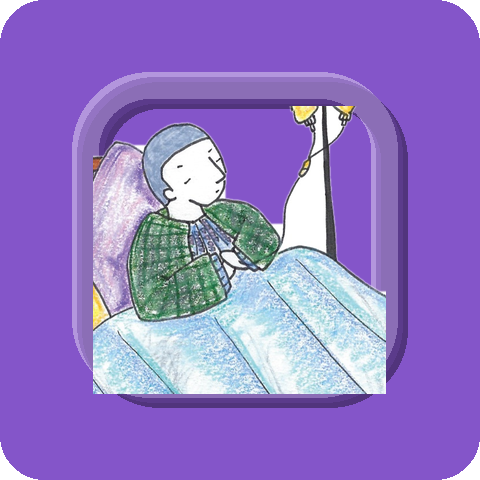
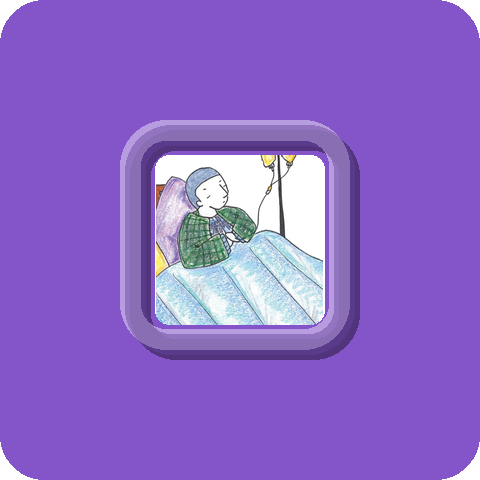
사계절 카드: 그림을 액자 안에 통째로 넣고 글자는 액자 밖으로
시안대로 '이름(위) → 액자 → 문구(아래)' 세 층으로 다시 잡았다.

배경 투명 처리를 없앴다. 흰 배경을 지우는 방식은 캐릭터의 흰 부분
(서퍼의 셔츠, 물보라, 이불)까지 함께 지워 카드 색이 비쳐 보였다.
이제 원본 그림을 액자 안쪽에 그대로 넣고, 그림의 흰 배경을 안쪽 판으로
쓴다. 캐릭터가 원화 그대로 선명하게 보인다.

- 액자를 268→230px로 줄이고 위 26% / 아래 26%를 글자 자리로 비움
- 계절 이름을 좌상단 → 상단 가운데, 문구는 하단 가운데로 (둘 다 액자 밖)
- 팔레트 PNG(ch-surf, ch-spring)를 RGB로 바로 바꾸면 투명 영역이 검게
  변하는 문제 수정 — 흰 바탕에 먼저 합성한 뒤 변환

검증: 375px(카드 162px)·1280px(312px) 모두 이름/문구가 액자 구간
(26~74%)을 침범하지 않음. 4장 로드 정상, 가로 스크롤 없음.

diff --git a/assets/css/style.css b/assets/css/style.css
@@ -2282,16 +2282,20 @@ a.video-more { display: grid; place-items: center; text-align: center; color: #f
 .season__it { position: relative; border-radius: var(--radius-lg); overflow: hidden;
   aspect-ratio: 1 / 1; box-shadow: var(--shadow); }
 .season__img { position: absolute; inset: 0; width: 100%; height: 100%; object-fit: cover; display: block; }
+/* 이름은 액자 위, 문구는 액자 아래 — 그림과 겹치지 않게 바깥으로 뺀다.
+   (합성 이미지에서 위 21% / 아래 24%를 비워 두었다) */
 .season__name {
-  position: absolute; top: 14px; left: 16px; z-index: 1;
+  position: absolute; top: 4%; left: 0; right: 0; z-index: 1;
+  text-align: center; line-height: 1.15;
   font-family: var(--font-head); font-weight: 900; letter-spacing: -0.02em;
-  font-size: clamp(1.5rem, 4.2vw, 2.1rem); color: #fff;
-  text-shadow: 0 2px 3px rgba(0,0,0,0.35), 0 0 22px rgba(0,0,0,0.25);
+  font-size: clamp(1.05rem, 3.6vw, 1.9rem); color: #fff;
+  text-shadow: 0 2px 4px rgba(0,0,0,0.28);
 }
 .season__cap {
-  position: absolute; left: 16px; right: 16px; bottom: 14px; z-index: 1;
-  font-weight: 700; font-size: 0.92rem; line-height: 1.5; color: #fff;
-  text-shadow: 0 1px 3px rgba(0,0,0,0.4), 0 0 14px rgba(0,0,0,0.3);
+  position: absolute; left: 6%; right: 6%; bottom: 4.5%; z-index: 1;
+  text-align: center;
+  font-weight: 700; font-size: clamp(0.7rem, 1.8vw, 0.94rem); line-height: 1.35;
+  color: #fff; text-shadow: 0 1px 4px rgba(0,0,0,0.32);
 }
 .an-illus-src {
   max-width: 640px; margin: var(--space-5) auto 0; text-align: center;
@@ -2325,9 +2329,9 @@ a.video-more { display: grid; place-items: center; text-align: center; color: #f
   .iceberg__art { max-width: 220px; margin: 0 auto; order: -1; }
   .iceberg .iceberg__quote { text-align: center; }
   .an-quote { font-size: 1.35rem; }
+  /* 위치는 % 기준(카드 크기에 따라 같이 줄어듦)이라 그대로 두고 폭만 줄인다 */
   .season { max-width: 420px; gap: 12px; }
-  .season__name { font-size: 1.35rem; top: 10px; left: 12px; }
-  .season__cap { font-size: 0.8rem; left: 12px; right: 12px; bottom: 10px; }
+  .season__cap { left: 5%; right: 5%; }
 }
 
 /* ===================================================================

diff --git a/letter-2026-summer.html b/letter-2026-summer.html
@@ -7,7 +7,7 @@
   <meta name="description" content="여름은 다들 떠나는 계절입니다. 그 여름에 병실에 있는 사람에게 보내는 편지. 페루 마추픽추, 산정특례 30일 규칙과 연말정산 장애인 공제, 그리고 2025년에 한 일." />
   <link rel="alternate" hreflang="ko" href="https://nrhoon777.github.io/ddobom-website/letter-2026-summer.html" />
   <link rel="icon" type="image/png" href="assets/img/logo-square.png" />
-  <link rel="stylesheet" href="assets/css/style.css?v=20260811c" />
+  <link rel="stylesheet" href="assets/css/style.css?v=20260811d" />
 </head>
 <body>
   <a href="#main" class="skip-link">본문 바로가기</a>
@@ -339,6 +339,6 @@
     </div>
   </footer>
 
-  <script src="assets/js/main.js?v=20260811c"></script>
+  <script src="assets/js/main.js?v=20260811d"></script>
 </body>
 </html>

diff --git a/letters.html b/letters.html
@@ -7,7 +7,7 @@
   <meta name="description" content="계절마다 한 번, 네 번에 걸쳐 한 해를 도는 또봄의 편지. 여름·가을·겨울·봄, 또봄 로고의 네 네모와 같은 순서입니다." />
   <link rel="alternate" hreflang="ko" href="https://nrhoon777.github.io/ddobom-website/letters.html" />
   <link rel="icon" type="image/png" href="assets/img/logo-square.png" />
-  <link rel="stylesheet" href="assets/css/style.css?v=20260811c" />
+  <link rel="stylesheet" href="assets/css/style.css?v=20260811d" />
 </head>
 <body>
   <a href="#main" class="skip-link">본문 바로가기</a>
@@ -164,6 +164,6 @@
     </div>
   </footer>
 
-  <script src="assets/js/main.js?v=20260811c"></script>
+  <script src="assets/js/main.js?v=20260811d"></script>
 </body>
 </html>

diff --git a/travel-peru.html b/travel-peru.html
@@ -7,7 +7,7 @@
   <meta name="description" content="이카, 나스카, 마추픽추, 쿠스코, 우유니, 69호수. 회복기의 몸을 기준으로 고도순으로 정리한 페루 여행 안내입니다." />
   <link rel="alternate" hreflang="ko" href="https://nrhoon777.github.io/ddobom-website/travel-peru.html" />
   <link rel="icon" type="image/png" href="assets/img/logo-square.png" />
-  <link rel="stylesheet" href="assets/css/style.css?v=20260811c" />
+  <link rel="stylesheet" href="assets/css/style.css?v=20260811d" />
 </head>
 <body>
   <a href="#main" class="skip-link">본문 바로가기</a>
@@ -216,6 +216,6 @@
     </div>
   </footer>
 
-  <script src="assets/js/main.js?v=20260811c"></script>
+  <script src="assets/js/main.js?v=20260811d"></script>
 </body>
 </html>

diff --git a/story-bucketbook.html b/story-bucketbook.html
@@ -7,7 +7,7 @@
   <meta name="description" content="말기암을 이겨낸 뒤 떠난 80일간의 여행. 그 사진으로 만든 포토북을 병원에 전한 2018년 프로젝트 기록입니다." />
   <link rel="alternate" hreflang="ko" href="https://nrhoon777.github.io/ddobom-website/story-bucketbook.html" />
   <link rel="icon" type="image/png" href="assets/img/logo-square.png" />
-  <link rel="stylesheet" href="assets/css/style.css?v=20260811c" />
+  <link rel="stylesheet" href="assets/css/style.css?v=20260811d" />
 </head>
 <body>
   <a href="#main" class="skip-link">본문 바로가기</a>
@@ -238,6 +238,6 @@
     </div>
   </footer>
 
-  <script src="assets/js/main.js?v=20260811c"></script>
+  <script src="assets/js/main.js?v=20260811d"></script>
 </body>
 </html>

diff --git a/index.html b/index.html
@@ -12,7 +12,7 @@
   <link rel="alternate" hreflang="en" href="https://nrhoon777.github.io/ddobom-website/en/index.html" />
   <link rel="alternate" hreflang="x-default" href="https://nrhoon777.github.io/ddobom-website/index.html" />
   <link rel="icon" type="image/png" href="assets/img/logo-square.png" />
-  <link rel="stylesheet" href="assets/css/style.css?v=20260811c" />
+  <link rel="stylesheet" href="assets/css/style.css?v=20260811d" />
 </head>
 <body>
   <a href="#main" class="skip-link">본문 바로가기</a>
@@ -448,7 +448,7 @@
     </div>
   </footer>
 
-  <script src="assets/js/main.js?v=20260811c"></script>
+  <script src="assets/js/main.js?v=20260811d"></script>
   <script type="module" src="assets/js/news-loader.js?v=20260807f"></script>
 </body>
 </html>

diff --git a/story-cheerup.html b/story-cheerup.html
@@ -7,7 +7,7 @@
   <meta name="description" content="암 경험자와 시민이 한자리에서 이야기하고 노래하는 토크·싱 콘서트. 2023년부터 네 번 열린 기록입니다." />
   <link rel="alternate" hreflang="ko" href="https://nrhoon777.github.io/ddobom-website/story-cheerup.html" />
   <link rel="icon" type="image/png" href="assets/img/logo-square.png" />
-  <link rel="stylesheet" href="assets/css/style.css?v=20260811c" />
+  <link rel="stylesheet" href="assets/css/style.css?v=20260811d" />
 </head>
 <body>
   <a href="#main" class="skip-link">본문 바로가기</a>
@@ -167,6 +167,6 @@
     </div>
   </footer>
 
-  <script src="assets/js/main.js?v=20260811c"></script>
+  <script src="assets/js/main.js?v=20260811d"></script>
 </body>
 </html>

diff --git a/story-gift-2020.html b/story-gift-2020.html
@@ -7,7 +7,7 @@
   <meta name="description" content="코로나로 만남이 어려웠던 2020년 겨울, 투병 중인 청년에게 여행 포토북을 보낸 캠페인 기록입니다." />
   <link rel="alternate" hreflang="ko" href="https://nrhoon777.github.io/ddobom-website/story-gift-2020.html" />
   <link rel="icon" type="image/png" href="assets/img/logo-square.png" />
-  <link rel="stylesheet" href="assets/css/style.css?v=20260811c" />
+  <link rel="stylesheet" href="assets/css/style.css?v=20260811d" />
 </head>
 <body>
   <a href="#main" class="skip-link">본문 바로가기</a>
@@ -133,6 +133,6 @@
     </div>
   </footer>
 
-  <script src="assets/js/main.js?v=20260811c"></script>
+  <script src="assets/js/main.js?v=20260811d"></script>
 </body>
 </html>

diff --git a/en/story-bucketbook.html b/en/story-bucketbook.html
@@ -8,7 +8,7 @@
   <link rel="alternate" hreflang="ko" href="https://nrhoon777.github.io/ddobom-website/story-bucketbook.html" />
   <link rel="alternate" hreflang="en" href="https://nrhoon777.github.io/ddobom-website/en/story-bucketbook.html" />
   <link rel="icon" type="image/png" href="../assets/img/logo-square.png" />
-  <link rel="stylesheet" href="../assets/css/style.css?v=20260811c" />
+  <link rel="stylesheet" href="../assets/css/style.css?v=20260811d" />
 </head>
 <body>
   <a href="#main" class="skip-link">Skip to content</a>
@@ -273,6 +273,6 @@
     </div>
   </footer>
 
-  <script src="../assets/js/main.js?v=20260811c"></script>
+  <script src="../assets/js/main.js?v=20260811d"></script>
 </body>
 </html>

diff --git a/en/story-gift-2020.html b/en/story-gift-2020.html
@@ -8,7 +8,7 @@
   <link rel="alternate" hreflang="ko" href="https://nrhoon777.github.io/ddobom-website/story-gift-2020.html" />
   <link rel="alternate" hreflang="en" href="https://nrhoon777.github.io/ddobom-website/en/story-gift-2020.html" />
   <link rel="icon" type="image/png" href="../assets/img/logo-square.png" />
-  <link rel="stylesheet" href="../assets/css/style.css?v=20260811c" />
+  <link rel="stylesheet" href="../assets/css/style.css?v=20260811d" />
 </head>
 <body>
   <a href="#main" class="skip-link">Skip to content</a>
@@ -174,6 +174,6 @@
     </div>
   </footer>
 
-  <script src="../assets/js/main.js?v=20260811c"></script>
+  <script src="../assets/js/main.js?v=20260811d"></script>
 </body>
 </html>

diff --git a/en/story-cheerup.html b/en/story-cheerup.html
@@ -8,7 +8,7 @@
   <link rel="alternate" hreflang="ko" href="https://nrhoon777.github.io/ddobom-website/story-cheerup.html" />
   <link rel="alternate" hreflang="en" href="https://nrhoon777.github.io/ddobom-website/en/story-cheerup.html" />
   <link rel="icon" type="image/png" href="../assets/img/logo-square.png" />
-  <link rel="stylesheet" href="../assets/css/style.css?v=20260811c" />
+  <link rel="stylesheet" href="../assets/css/style.css?v=20260811d" />
 </head>
 <body>
   <a href="#main" class="skip-link">Skip to content</a>
@@ -205,6 +205,6 @@
     </div>
   </footer>
 
-  <script src="../assets/js/main.js?v=20260811c"></script>
+  <script src="../assets/js/main.js?v=20260811d"></script>
 </body>
 </html>

diff --git a/en/programs.html b/en/programs.html
@@ -9,7 +9,7 @@
   <link rel="alternate" hreflang="en" href="https://nrhoon777.github.io/ddobom-website/en/programs.html" />
   <link rel="alternate" hreflang="x-default" href="https://nrhoon777.github.io/ddobom-website/programs.html" />
   <link rel="icon" type="image/png" href="../assets/img/logo-square.png" />
-  <link rel="stylesheet" href="../assets/css/style.css?v=20260811c" />
+  <link rel="stylesheet" href="../assets/css/style.css?v=20260811d" />
 </head>
 <body>
   <a href="#main" class="skip-link">Skip to content</a>
@@ -309,6 +309,6 @@
     </div>
   </footer>
 
-  <script src="../assets/js/main.js?v=20260811c"></script>
+  <script src="../assets/js/main.js?v=20260811d"></script>
 </body>
 </html>
